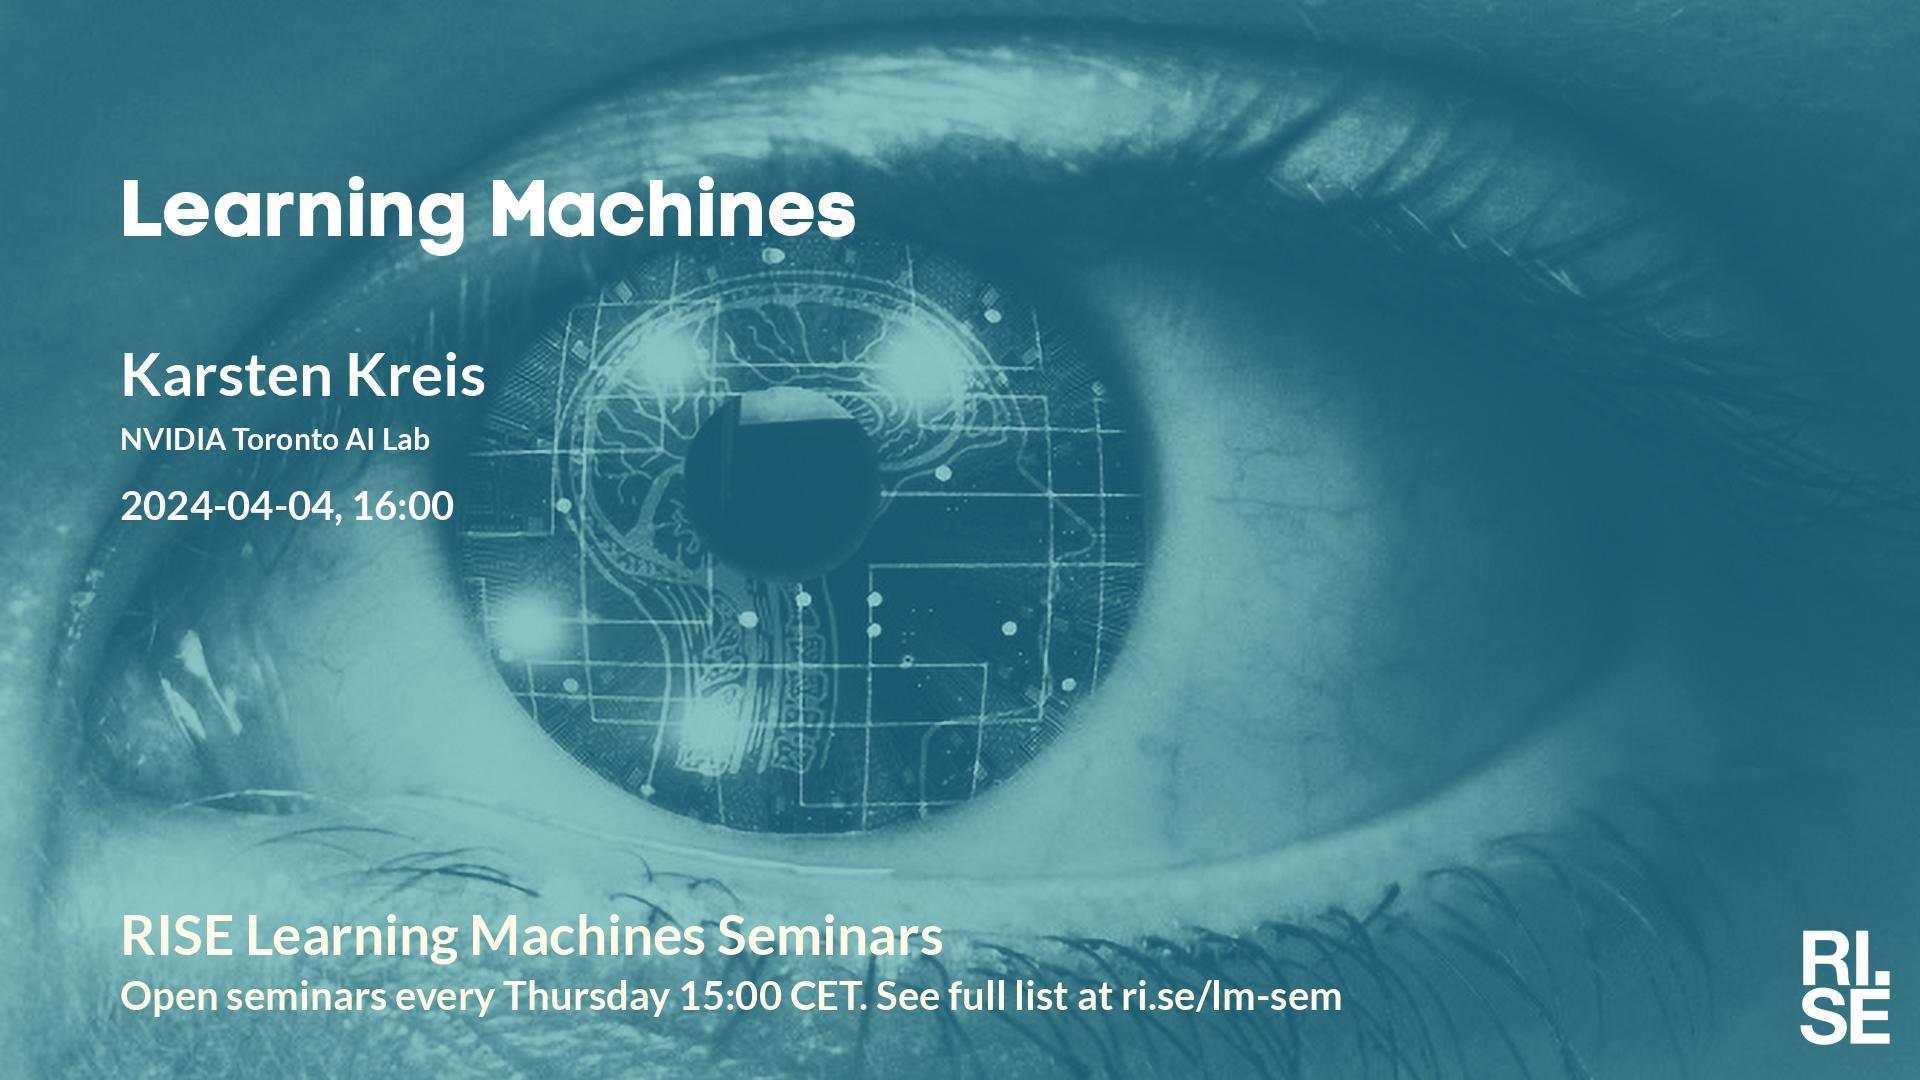
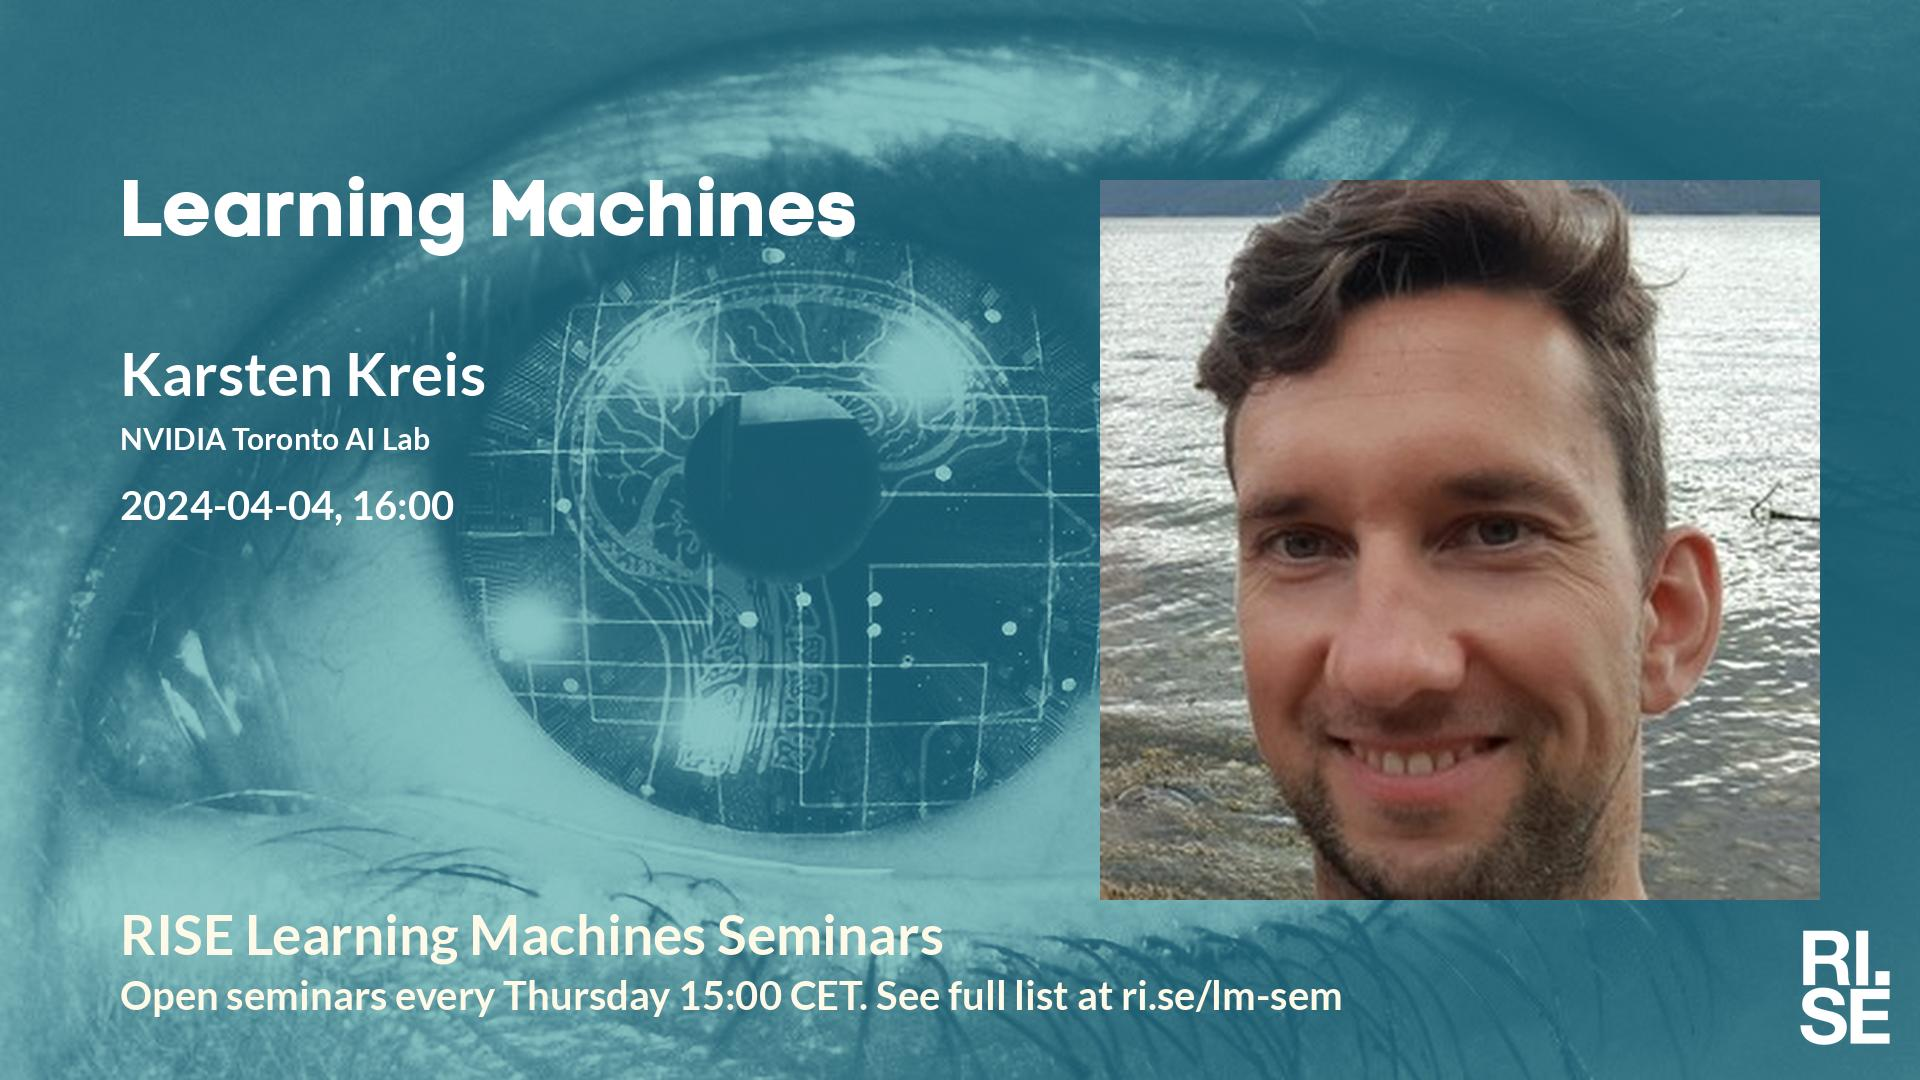
Updated plan on web site.

Changed region(s): [[0.5625, 0.1528, 0.9688, 0.8556]]

diff --git a/lm/index.md b/lm/index.md
@@ -20,7 +20,7 @@ table {border-collapse: collapse;}
 |  2024-03-07  |  [Elise van der Pol, Microsoft Research](2024-03-07.md)  |  [photo](photo-elise-van-der-pol.jpg)  |  [social media ](social-media-elise-van-der-pol.jpg)  |  [meeting backdrop ](meeting-backdrop-elise-van-der-pol.jpg)  |  [youtube thumbnail ](youtube-thumbnail-elise-van-der-pol.jpg)  |  S~~TAB~~P  |
 |  2024-03-14  |  [Santiago Martinez Balvanera, University College London](2024-03-14.md)  |  [photo](photo-santiago-martinez-balvanera.jpg)  |  [social media ](social-media-santiago-martinez-balvanera.jpg)  |  [meeting backdrop ](meeting-backdrop-santiago-martinez-balvanera.jpg)  |  [youtube thumbnail ](youtube-thumbnail-santiago-martinez-balvanera.jpg)  |  S~~TAB~~P  |
 |  2024-03-21  |  [Fredrik Gustafsson, Karolinska Institutet](2024-03-21.md)  |  [photo](photo-fredrik-gustafsson.jpg)  |  [social media ](social-media-fredrik-gustafsson.jpg)  |  [meeting backdrop ](meeting-backdrop-fredrik-gustafsson.jpg)  |  [youtube thumbnail ](youtube-thumbnail-fredrik-gustafsson.jpg)  |  STA~~B~~P  |
-|  2024-04-04  |  [Karsten Kreis, NVIDIA Toronto AI Lab](2024-04-04.md)  |    |  [social media ](social-media-karsten-kreis.jpg)  |  [meeting backdrop ](meeting-backdrop-karsten-kreis.jpg)  |  [youtube thumbnail ](youtube-thumbnail-karsten-kreis.jpg)  |  S~~TABP~~  |
+|  2024-04-04  |  [Karsten Kreis, NVIDIA Toronto AI Lab](2024-04-04.md)  |  [photo](photo-karsten-kreis.jpg)  |  [social media ](social-media-karsten-kreis.jpg)  |  [meeting backdrop ](meeting-backdrop-karsten-kreis.jpg)  |  [youtube thumbnail ](youtube-thumbnail-karsten-kreis.jpg)  |  S~~TAB~~P  |
 | <span style="color:purple"> 2024-04-11 </span> | <span style="color:purple"> *Up for grabs!!!* </span> | <span style="color:purple">  </span> | <span style="color:purple">  </span> | <span style="color:purple">  </span> | <span style="color:purple">  </span> | <span style="color:purple"> ~~STABP~~ </span> |
 | <span style="color:purple"> 2024-04-18 </span> | <span style="color:purple"> *Up for grabs!!!* </span> | <span style="color:purple">  </span> | <span style="color:purple">  </span> | <span style="color:purple">  </span> | <span style="color:purple">  </span> | <span style="color:purple"> ~~STABP~~ </span> |
 | <span style="color:purple"> 2024-04-25 </span> | <span style="color:purple"> *Up for grabs!!!* </span> | <span style="color:purple">  </span> | <span style="color:purple">  </span> | <span style="color:purple">  </span> | <span style="color:purple">  </span> | <span style="color:purple"> ~~STABP~~ </span> |
